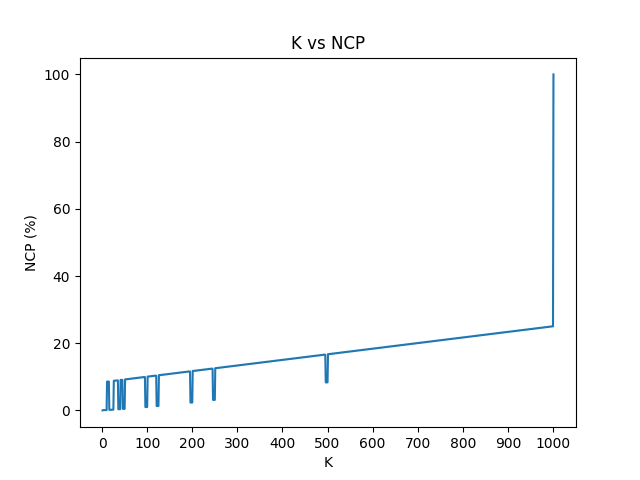
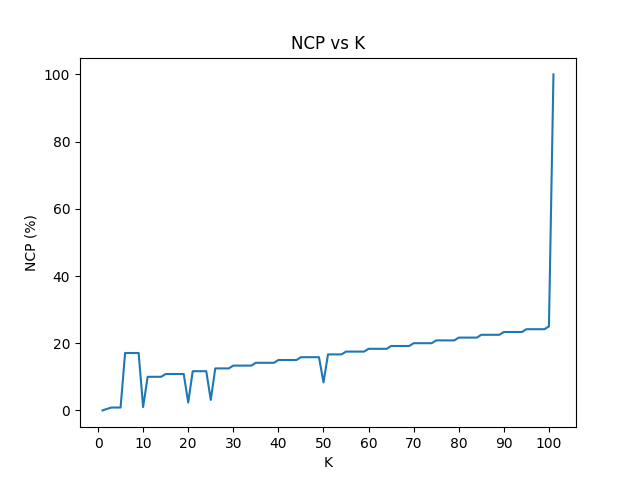
Add empirically sampled values for H

diff --git a/k_anonymizer.py b/k_anonymizer.py
@@ -2,7 +2,7 @@ import sys
 import numpy as np
 import pandas as pd
 # from transform import Transformer
-import argparse
+import argparse, sympy
 import matplotlib.pyplot as plt
 sys.path.insert(-1,'Basic_Mondrian')
 from mondrian import mondrian
@@ -17,6 +17,10 @@ class KAnonymizer:
         See Basic_Mondrian: https://github.com/qiyuangong/Basic_Mondrian.git
     '''
     def __init__(self,fname:str):
+        self.hs = [1,2,3,4,5,6,8,10,12,
+            15,16,20,24,30,32,40,48,60,
+            64,80,96,120,160,192, 240, 320
+            ]
         '''
             Constructor
             fname: name of file containing data to be anonymized (csv)
@@ -34,15 +38,22 @@ class KAnonymizer:
         '''
         cols = self.df.columns.values if cols==None else cols
         # pick H
+        sz = len(self.df)
         if gen_scale is None:
-            h = k
-            while h%5 != 0 and h != 0:
-                h += 1
+            h = next((h for h in self.hs if h>=k),10)
+            # while h%5 != 0 and h > 0:
+            #     h -= 1
+            # if h == 0:
+            #     h = 5
+            # h = k
+            # h = int(sz * 0.15) if k > 1 else k
+
         else:
             h = gen_scale
-        print('usng k: ',k)
-        print('picked H: ',h)
-        print('Before anonymizing:\n',self.df,'\n')
+        # print('usng k: ',k)
+        # print('picked H: ',h)
+        # print('Before anonymizing:\n',self.df,'\n')
+        self.h = h
         hierarchy = self.generate_hierarch(cols,h,len(self.data))
         # flip data
         flipped = np.flip(self.data,-1)
@@ -66,7 +77,7 @@ class KAnonymizer:
         # create new df w/ splitted values
         new_df = pd.DataFrame(df['DER'].tolist(),columns=cols)
         return new_df
-    def generate_hierarch(self,names,gen_scale=5,data_size=1000):
+    def generate_hierarch(self,names,gen_scale=10,data_size=1000):
         hier = []
         d = {}
         # generate root for all names (might not be the best scheme)

diff --git a/plot.py b/plot.py
@@ -10,19 +10,54 @@ parser.add_argument('-f', metavar='F', type=str, help='Input file name')
 
 args = parser.parse_args()
 f = args.f
-ks = []
-ns = []
-size = len(pd.read_csv(f))
-for i in range(1,size+2):
-    ks.append(i)
-    anonymizer = k_anonymizer.KAnonymizer(fname=f)
-    d,n,t = anonymizer.anonymize(k=i)
-    ns.append(n)
-plt.plot(ks,ns)
-plt.title('K vs NCP')
-plt.ylabel('NCP (%)')
-plt.xlabel('K')
-plt.xticks(list(range(0,len(ks)+1,size//10)))
-plt.savefig('ks_vs_ns.png',fmt='PNG')
-print('KS: ',ks,'\n')
-print('NS: ',ns)
+norm_ks,norm_ns, norm_hs = [],[],[]
+size = len(pd.read_csv(f))//2
+
+CB91_Blue = '#2CBDFE'
+CB91_Green = '#47DBCD'
+CB91_Pink = '#F3A0F2'
+CB91_Purple = '#9D2EC5'
+CB91_Violet = '#661D98'
+CB91_Amber = '#F5B14C'
+
+color_list = [CB91_Blue, CB91_Pink, CB91_Green, CB91_Amber,
+              CB91_Purple, CB91_Violet]
+plt.rcParams['axes.prop_cycle'] = plt.cycler(color=color_list)
+
+name = 'ncp_vs_k_1000_'
+h_vals = [2,4,5,6,8,10,12,14,15]
+anonymizer = k_anonymizer.KAnonymizer(fname=f)
+run_normal = True
+for h in h_vals[1:3]:
+    ks = []
+    ns = []
+    hs = []
+    for i in range(1,size+2):
+        ks.append(i)
+        d,n,t = anonymizer.anonymize(k=i,gen_scale=i)
+        hs.append(anonymizer.h)
+        ns.append(n)
+
+        if run_normal:
+            d,n,t = anonymizer.anonymize(k=i)
+            norm_ks.append(i)
+            norm_hs.append(anonymizer.h)
+            norm_ns.append(n)
+    plt.plot(ks,ns)
+    plt.plot(ks,norm_ns)
+    plt.grid() 
+
+    plt.legend([f'h = k',f'h = {h}'])
+    plt.title('NCP vs K')
+    plt.ylabel('NCP (%)')
+    plt.xlabel('K')
+    plt.xticks(list(range(0,len(ks)+1,size//10)))
+    
+    plt.savefig(name+f'{h}.png')
+    plt.close()
+    run_normal = False
+
+con = list(zip(ks,hs,ns))
+# print(list(filter(lambda x: x[-1] <10,con)))
+# print('\n')
+# print(list(filter(lambda x: x[-1] >4,con)))
